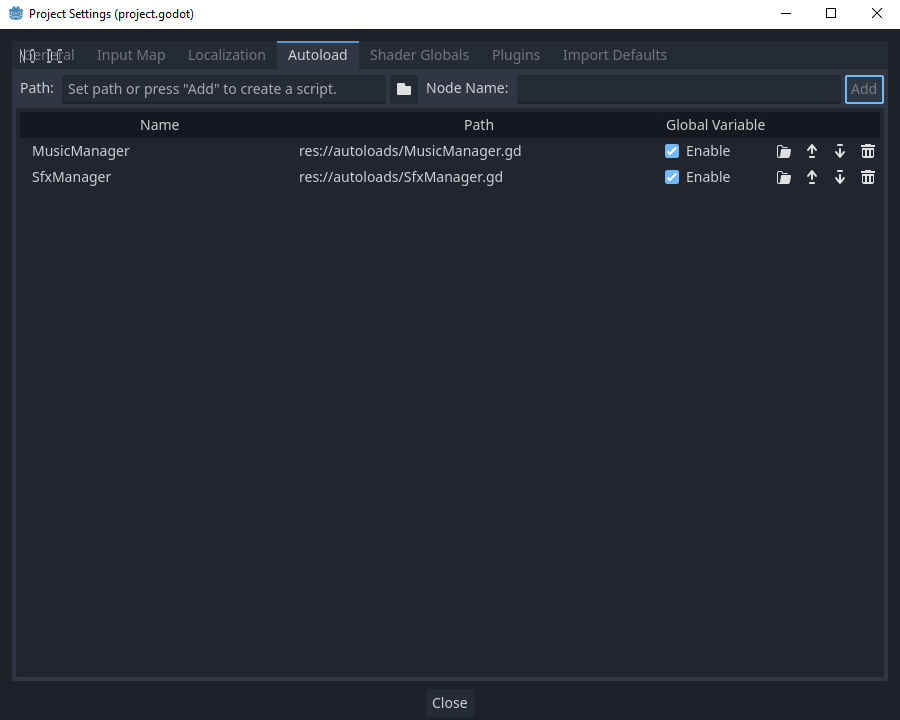
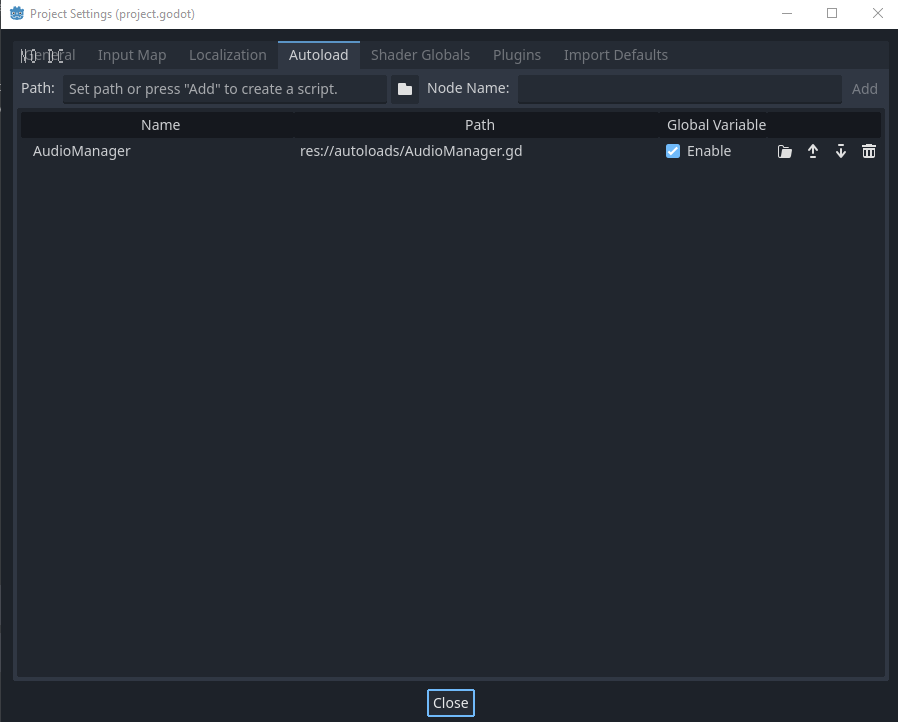
edit readme

diff --git a/README.md b/README.md
@@ -1,6 +1,6 @@
 # AudioManager for Godot 4+
  
-Add each audio manager to your project autoload settings like so:
+Add the audio manager to your project autoload settings like so:
 
 ![Autoload Settings](https://github.com/nicoviarnes/AudioManager/blob/main/autoload_screenshot.PNG)
 
